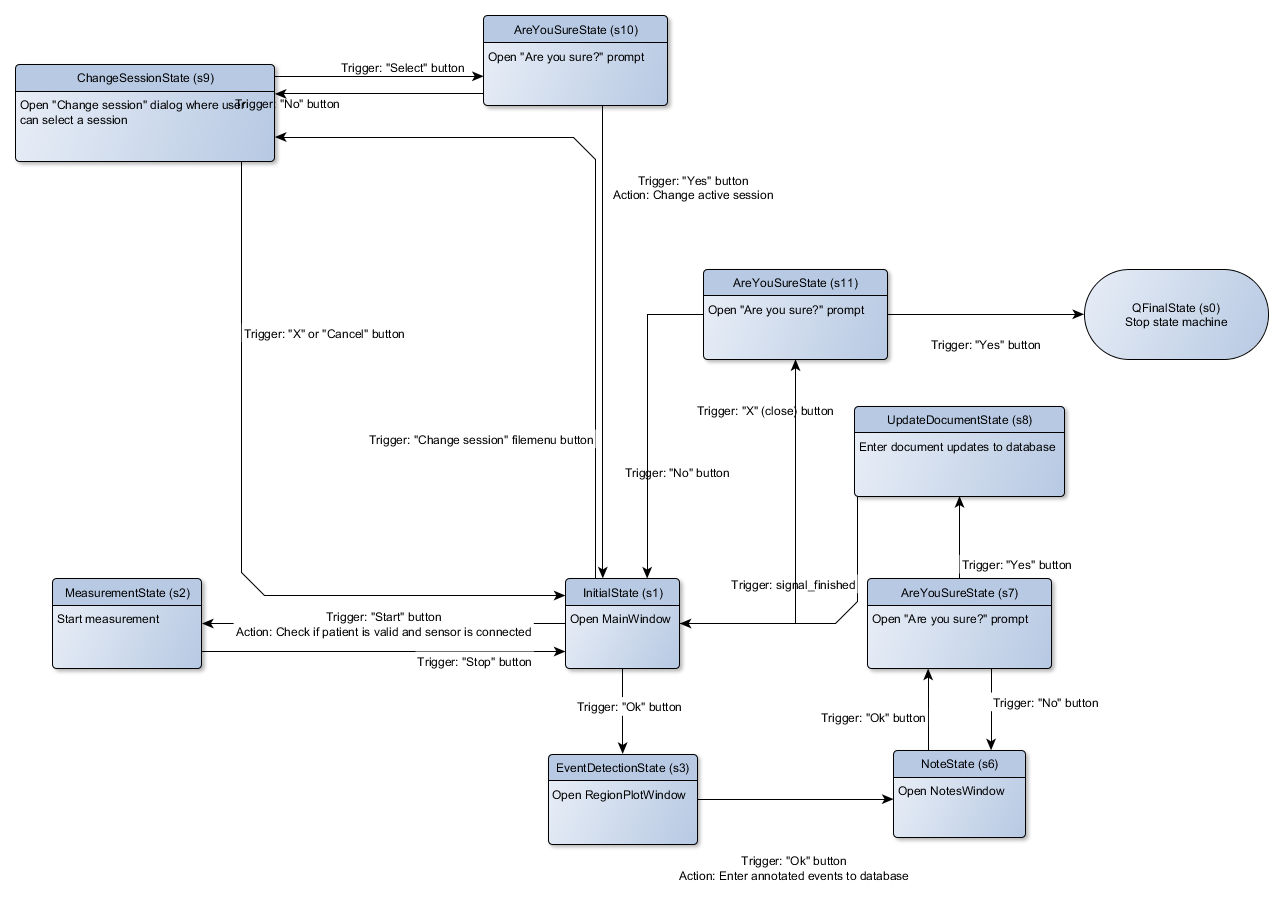
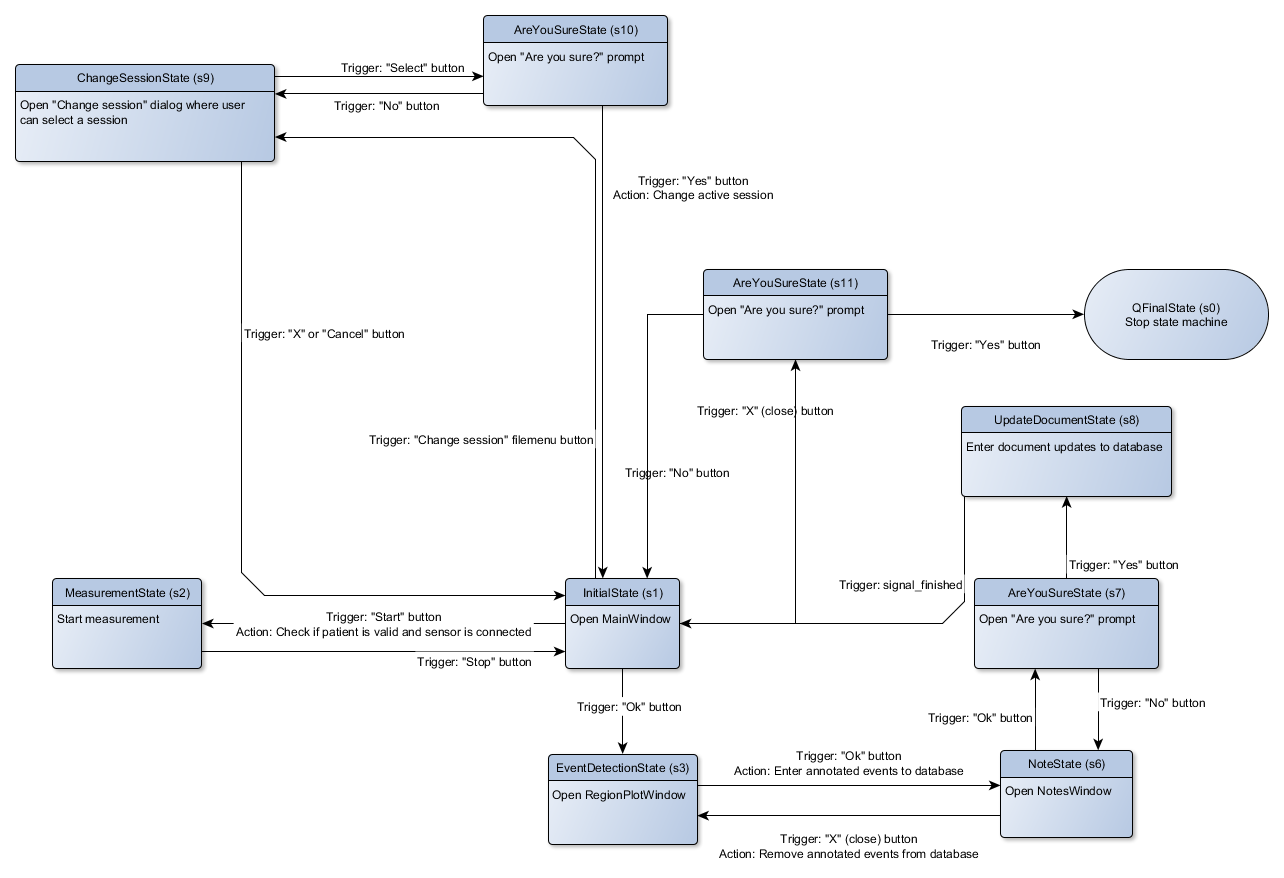
Change Click X in NoteState returns to EventDetectionState (#148)

diff --git a/cranio/state.py b/cranio/state.py
@@ -245,6 +245,7 @@ class NoteState(MyState):
         self.dialog = NotesWindow()
         # Signals
         self.signal_ok = self.dialog.ok_button.clicked
+        self.signal_close = self.dialog.signal_close
 
     def onEntry(self, event: QEvent):
         super().onEntry(event)
@@ -332,6 +333,17 @@ class EnterAnnotatedEventsTransition(QSignalTransition):
                 logger.debug(str(e))
 
 
+class RemoveAnnotatedEventsTransition(QSignalTransition):
+    def onTransition(self, event: QEvent):
+        super().onTransition(event)
+        with session_scope() as s:
+            for e in self.machine().annotated_events:
+                logger.debug(f'Remove {str(e)} from database')
+                s.query(AnnotatedEvent).filter(AnnotatedEvent.document_id == e.document_id).\
+                    filter(AnnotatedEvent.event_type == e.event_type).\
+                    filter(AnnotatedEvent.event_num == e.event_num).delete()
+
+
 class MyStateMachine(QStateMachine):
 
     def __init__(self):
@@ -363,13 +375,15 @@ class MyStateMachine(QStateMachine):
         self.change_active_session_transition.setTargetState(self.s1)
         self.enter_annotated_events_transition = EnterAnnotatedEventsTransition(self.s3.signal_ok)
         self.enter_annotated_events_transition.setTargetState(self.s6)
+        self.remove_annotated_events_transition = RemoveAnnotatedEventsTransition(self.s6.signal_close)
+        self.remove_annotated_events_transition.setTargetState(self.s3)
         self.transition_map = {self.s1: {self.s2: self.start_measurement_transition,
                                          self.s3: self.main_window.signal_ok,
                                          self.s9: self.s1.signal_change_session,
                                          self.s11: self.main_window.signal_close},
                                self.s2: {self.s1: self.main_window.signal_stop},
                                self.s3: {self.s6: self.enter_annotated_events_transition},
-                               self.s6: {self.s7: self.s6.signal_ok},
+                               self.s6: {self.s7: self.s6.signal_ok, self.s3: self.remove_annotated_events_transition},
                                self.s7: {self.s6: self.s7.signal_no, self.s8: self.s7.signal_yes},
                                self.s8: {self.s1: self.s8.signal_finished},
                                self.s9: {self.s10: self.s9.signal_select, self.s1: self.s9.signal_cancel},
@@ -378,7 +392,7 @@ class MyStateMachine(QStateMachine):
         for source, targets in self.transition_map.items():
             for target, signal in targets.items():
                 if type(signal) in (StartMeasurementTransition, ChangeActiveSessionTransition,
-                                    EnterAnnotatedEventsTransition):
+                                    EnterAnnotatedEventsTransition, RemoveAnnotatedEventsTransition):
                     source.addTransition(signal)
                 else:
                     source.addTransition(signal, target)

diff --git a/test/test_state_machine.py b/test/test_state_machine.py
@@ -150,34 +150,40 @@ def test_event_detection_state_flow(machine, qtbot):
     with qtbot.waitSignal(machine.s3.signal_ok):
         qtbot.keyPress(machine.s3.dialog, Qt.Key_Enter)
     assert machine.in_state(machine.s6)
-    # verify that annotated events were entered
+    # Verify that annotated events were entered
     with session_scope() as s:
         events = s.query(AnnotatedEvent).filter(AnnotatedEvent.document_id == machine.document.document_id).all()
         assert len(events) == region_count
         region_edits = [machine.s3.dialog.get_region_edit(i) for i in range(region_count)]
-        # verify region edges
+        # Verify region edges
         for region_edit, event in zip(region_edits, events):
             assert region_edit.left_edge() == event.event_begin
             assert region_edit.right_edge() == event.event_end
-    # transition from s5 to s6 has been triggered automatically
-    # trigger transition from s6 to s7 (i.e., click Ok on NotesWindow)
+    # Trigger transition back to s3 and verify that annotated events were removed
+    machine.s6.signal_close.emit()
+    assert machine.in_state(machine.s3)
+    # Trigger transition back to s6
+    with qtbot.waitSignal(machine.s3.signal_ok):
+        qtbot.keyPress(machine.s3.dialog, Qt.Key_Enter)
+    assert machine.in_state(machine.s6)
+    # Trigger transition from s6 to s7 (i.e., click Ok on NotesWindow)
     machine.s6.signal_ok.emit()
     app.processEvents()
-    # trigger transition back to s6 (i.e., click No on "are you sure?" prompt)
+    # Trigger transition back to s6 (i.e., click No on "are you sure?" prompt)
     machine.s7.signal_no.emit()
     app.processEvents()
-    # enter data in NotesWindow
+    # Enter data in NotesWindow
     notes = 'foo'
     full_turn_count = 1.2
     machine.s6.dialog.notes = notes
     machine.s6.dialog.full_turn_count = full_turn_count
-    # trigger transition from s6 to s7 (i.e., click Ok on NotesWindow)
+    # Trigger transition from s6 to s7 (i.e., click Ok on NotesWindow)
     machine.s6.signal_ok.emit()
     app.processEvents()
-    # trigger transition from s7 to s1 (i.e., click Yes on "are you sure?" prompt)
+    # Trigger transition from s7 to s1 (i.e., click Yes on "are you sure?" prompt)
     machine.s7.signal_yes.emit()
     app.processEvents()
-    # verify that document updates were entered to database
+    # Verify that document updates were entered to database
     with session_scope() as s:
         document = s.query(Document).filter(Document.document_id == machine.document.document_id).first()
         assert document.notes == notes

diff --git a/cranio/app/window.py b/cranio/app/window.py
@@ -124,6 +124,7 @@ class RegionPlotWindow(QDialog):
 
 
 class NotesWindow(QDialog):
+    signal_close = pyqtSignal()
 
     def __init__(self):
         super().__init__()
@@ -162,6 +163,12 @@ class NotesWindow(QDialog):
     @notes.setter
     def notes(self, value: str):
         self.notes_widget.value = value
+
+    def closeEvent(self, event):
+        """ User has clicked X on the dialog or QWidget.close() has been called programmatically. """
+        super().closeEvent(event)
+        logger.debug('X (close) button clicked')
+        self.signal_close.emit()
 
 
 class SessionDialog(QDialog):
